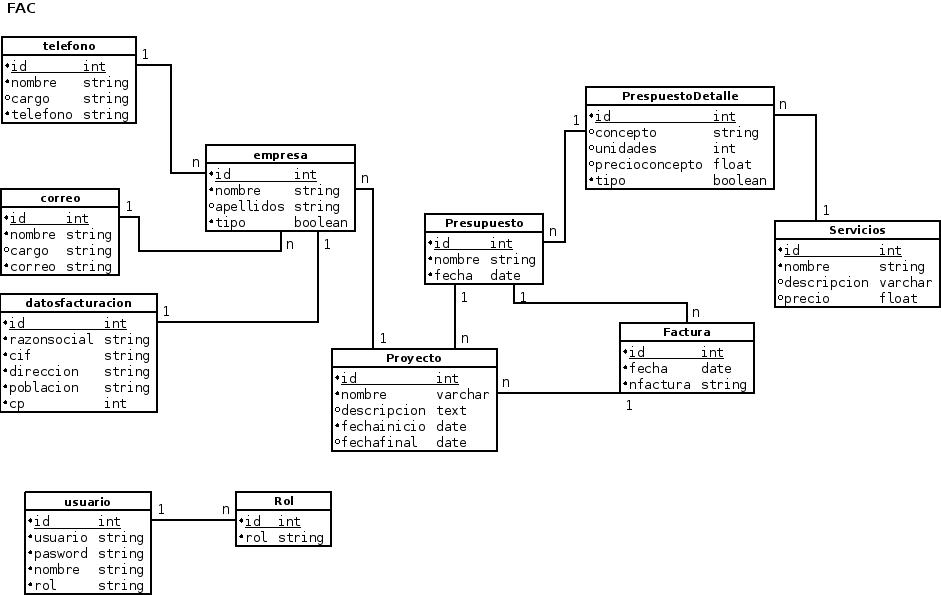
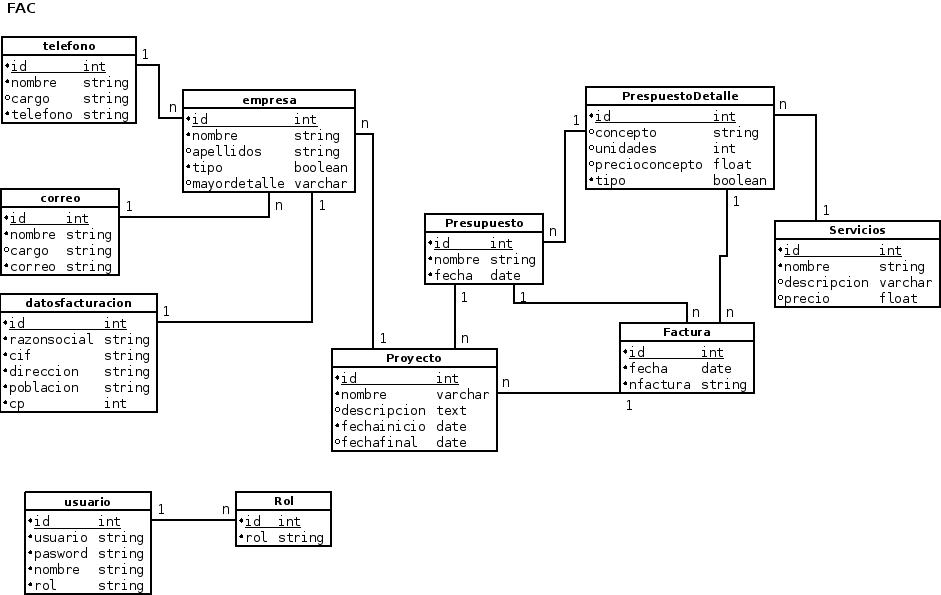
Modificacion Diagrama concepto entidades y relacion entidades

Changed region(s): [[0.1541, 0.121, 0.4006, 0.5445]]

diff --git a/src/Ofi/GestionBundle/Entity/Proyecto.php b/src/Ofi/GestionBundle/Entity/Proyecto.php
@@ -3,6 +3,9 @@
 namespace Ofi\GestionBundle\Entity;
 
 use Doctrine\ORM\Mapping as ORM;
+use Doctrine\Common\Collections\ArrayCollection;
+use Symfony\Component\Validator\Constraints as Assert;
+use Ofi\GestionBundle\Entity\Presupuesto;
 
 /**
  * Proyecto
@@ -50,6 +53,25 @@ class Proyecto
     private $fechafinal;
 
 
+	/**
+	 * @ORM\ManyToOne(targetEntity="Empresa", inversedBy="proyectos")
+	 * @ORM\JoinColumn(name="empresa_id", referencedColumnName="id")
+	 */ 
+	private $empresa;
+
+	/**
+	 * @ORM\OneToMany(targetEntity="Presupuesto", mappedBy="proyecto", cascade={"all"})
+	 * 
+	 */ 
+    private $presupuestos;
+
+
+    public function __construct() {
+        $this->presupuestos 	= new ArrayCollection();
+
+    }
+
+
     /**
      * Get id
      *
@@ -59,6 +81,30 @@ class Proyecto
     {
         return $this->id;
     }
+
+    /**
+     * Set empresa
+     *
+     * @param integer $empresa
+     * @return empresa
+     */
+    public function setEmpresa($empresa)
+    {
+        $this->empresa = $empresa;
+
+        return $this;
+    }
+
+    /**
+     * Get empresa
+     *
+     * @return integer 
+     */
+    public function getEmpresa()
+    {
+        return $this->empresa;
+    }
+
 
     /**
      * Set nombre

diff --git a/src/Ofi/GestionBundle/Entity/Detalle.php b/src/Ofi/GestionBundle/Entity/Detalle.php
@@ -3,14 +3,16 @@
 namespace Ofi\GestionBundle\Entity;
 
 use Doctrine\ORM\Mapping as ORM;
+use Symfony\Component\Validator\Constraints as Assert;
+use Ofi\GestionBundle\Entity\Presupuesto;
 
 /**
- * Detalles
+ * Detalle
  *
  * @ORM\Table()
  * @ORM\Entity(repositoryClass="Ofi\GestionBundle\Entity\DetallesRepository")
  */
-class Detalles
+class Detalle
 {
     /**
      * @var integer
@@ -35,6 +37,24 @@ class Detalles
      */
     private $precio;
 
+	/**
+	 * @ORM\ManyToOne(targetEntity="Presupuesto", inversedBy="detalles")
+	 * @ORM\JoinColumn(name="presupuesto_id", referencedColumnName="id")
+	 */ 
+	private $presupuesto;
+
+	/**
+	 * @ORM\ManyToOne(targetEntity="Factura", inversedBy="detalles")
+	 * @ORM\JoinColumn(name="factura_id", referencedColumnName="id")
+	 */ 
+	private $factura;
+	
+	/**
+	 * @ORM\ManyToOne(targetEntity="Servicio", inversedBy="detalles")
+	 * @ORM\JoinColumn(name="servicio_id", referencedColumnName="id")
+	 */ 
+	private $servicio;	
+	
 
     /**
      * Get id

diff --git a/src/Ofi/GestionBundle/Entity/Presupuesto.php b/src/Ofi/GestionBundle/Entity/Presupuesto.php
@@ -3,6 +3,9 @@
 namespace Ofi\GestionBundle\Entity;
 
 use Doctrine\ORM\Mapping as ORM;
+use Doctrine\Common\Collections\ArrayCollection;
+use Symfony\Component\Validator\Constraints as Assert;
+use Ofi\GestionBundle\Entity\Detalle;
 
 /**
  * Presupuesto
@@ -35,6 +38,29 @@ class Presupuesto
      */
     private $fecha;
 
+	/**
+	 * @ORM\ManyToOne(targetEntity="Proyecto", inversedBy="presupuestos")
+	 * @ORM\JoinColumn(name="proyecto_id", referencedColumnName="id")
+	 */ 
+	private $proyecto;
+
+
+	/**
+	 * @ORM\ManyToOne(targetEntity="Factura", inversedBy="presupuestos")
+	 * @ORM\JoinColumn(name="factura_id", referencedColumnName="id")
+	 */ 
+	private $factura;
+
+	/**
+	 * @ORM\OneToMany(targetEntity="Detalle", mappedBy="presupuesto", cascade={"all"})
+	 * 
+	 */ 
+    private $detalles;
+
+    public function __construct() {
+        $this->detalles 	= new ArrayCollection();
+
+    }
 
     /**
      * Get id

diff --git a/src/Ofi/GestionBundle/Entity/Factura.php b/src/Ofi/GestionBundle/Entity/Factura.php
@@ -5,6 +5,8 @@ namespace Ofi\GestionBundle\Entity;
 use Doctrine\ORM\Mapping as ORM;
 use Doctrine\Common\Collections\ArrayCollection;
 use Symfony\Component\Validator\Constraints as Assert;
+use Ofi\GestionBundle\Entity\Detalle;
+use Ofi\GestionBundle\Entity\Presupuesto;
 
 /**
  * Factura
@@ -50,17 +52,24 @@ class Factura
 	 */ 
 	 private $empresa;
 
+	/**
+	 * @ORM\OneToMany(targetEntity="Detalle", mappedBy="factura", cascade={"all"})
+	 * 
+	 */ 
+    private $detalles;
 
 
 	/**
-	 * @ORM\OneToMany(targetEntity="FacturaDetalle", mappedBy="factura")
+	 * @ORM\OneToMany(targetEntity="Presupuesto", mappedBy="factura", cascade={"all"})
 	 * 
 	 */ 
-	 protected $detalles;
+    private $presupuestos;
+    
 	 
 	public function __construct()
 	{
 		$this->detalles = new ArrayCollection();
+		$this->presupuestos = new ArrayCollection();
 	}
 
     /**

diff --git a/src/Ofi/GestionBundle/Entity/Empresa.php b/src/Ofi/GestionBundle/Entity/Empresa.php
@@ -8,6 +8,7 @@ use Symfony\Component\Validator\Constraints as Assert;
 use Ofi\GestionBundle\Entity\Telefono;
 use Ofi\GestionBundle\Entity\Correo;
 use Ofi\GestionBundle\Entity\DatosFacturacion;
+use Ofi\GestionBundle\Entity\Proyecto;
 
 /**
  * Empresa
@@ -75,6 +76,13 @@ class Empresa
     private $correos;
 
 	/**
+	 * @ORM\OneToMany(targetEntity="Proyecto", mappedBy="empresa", cascade={"all"})
+	 * 
+	 */ 
+    private $proyectos;
+
+
+	/**
 	 * @ORM\OneToMany(targetEntity="Factura", mappedBy="empresa")
 	 * 
 	 */ 
@@ -89,6 +97,7 @@ class Empresa
         $this->telefonos 	= new ArrayCollection();
         $this->correos 		= new ArrayCollection();
         $this->facturas 	= new ArrayCollection();
+        $this->proyectos 	= new ArrayCollection();
     }
 
 

diff --git a/src/Ofi/GestionBundle/Entity/Servicio.php b/src/Ofi/GestionBundle/Entity/Servicio.php
@@ -3,7 +3,9 @@
 namespace Ofi\GestionBundle\Entity;
 
 use Doctrine\ORM\Mapping as ORM;
-
+use Doctrine\Common\Collections\ArrayCollection;
+use Symfony\Component\Validator\Constraints as Assert;
+use Ofi\GestionBundle\Entity\Detalle;
 /**
  * Servicio
  *
@@ -42,6 +44,16 @@ class Servicio
      */
     private $precio;
 
+	/**
+	 * @ORM\OneToMany(targetEntity="Detalle", mappedBy="servicio", cascade={"all"})
+	 * 
+	 */ 
+    private $detalles;
+
+    public function __construct() {
+        $this->detalles 	= new ArrayCollection();
+
+    }
 
     /**
      * Get id

diff --git a/src/Ofi/GestionBundle/Entity/DetalleRepository.php b/src/Ofi/GestionBundle/Entity/DetalleRepository.php
@@ -5,11 +5,11 @@ namespace Ofi\GestionBundle\Entity;
 use Doctrine\ORM\EntityRepository;
 
 /**
- * FacturaDetalleRepository
+ * DetallesRepository
  *
  * This class was generated by the Doctrine ORM. Add your own custom
  * repository methods below.
  */
-class FacturaDetalleRepository extends EntityRepository
+class DetalleRepository extends EntityRepository
 {
 }
